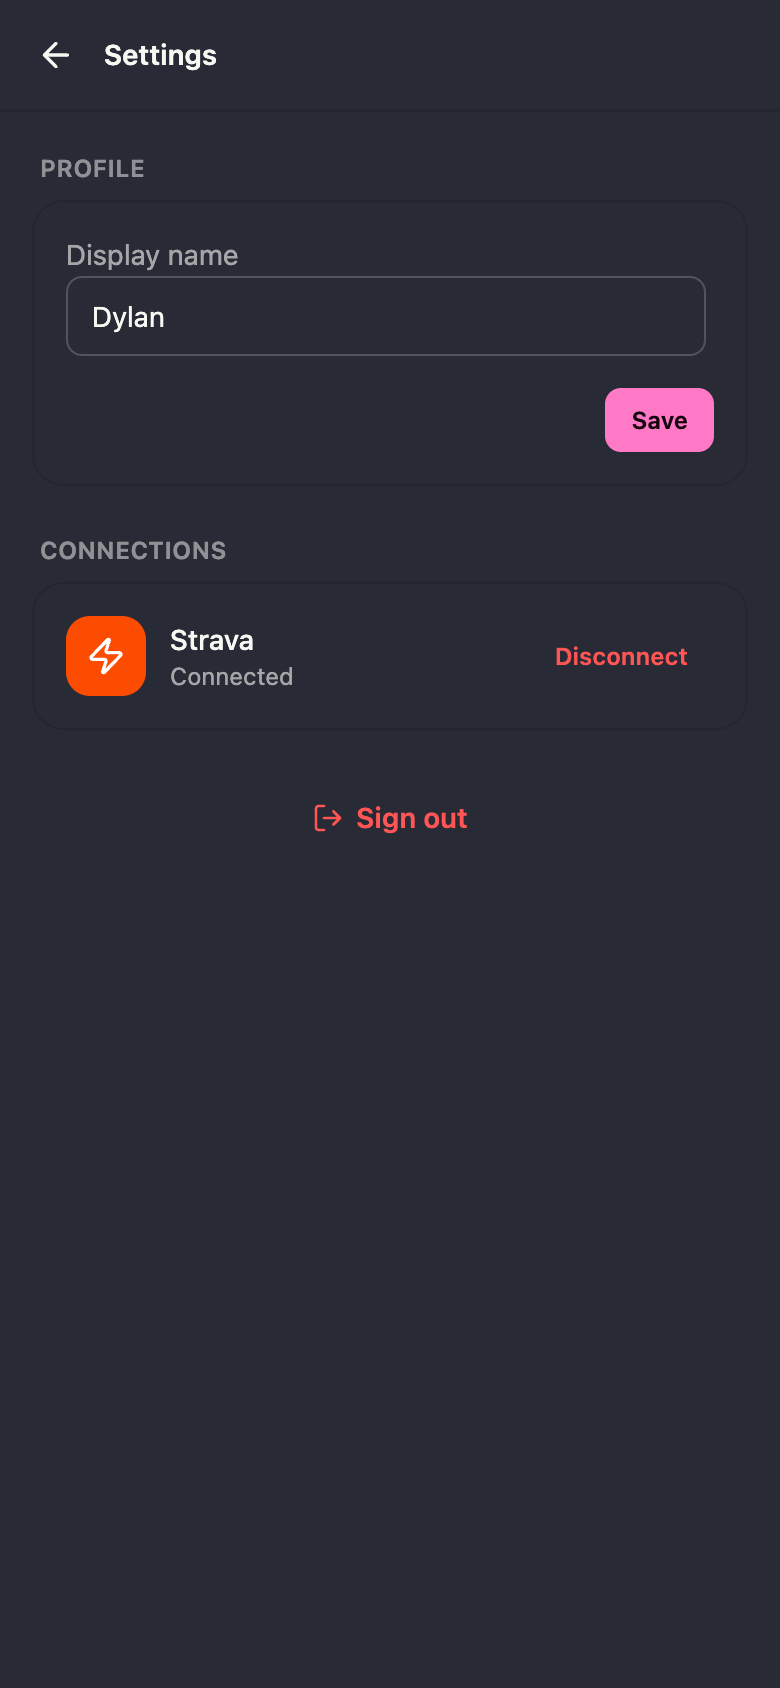
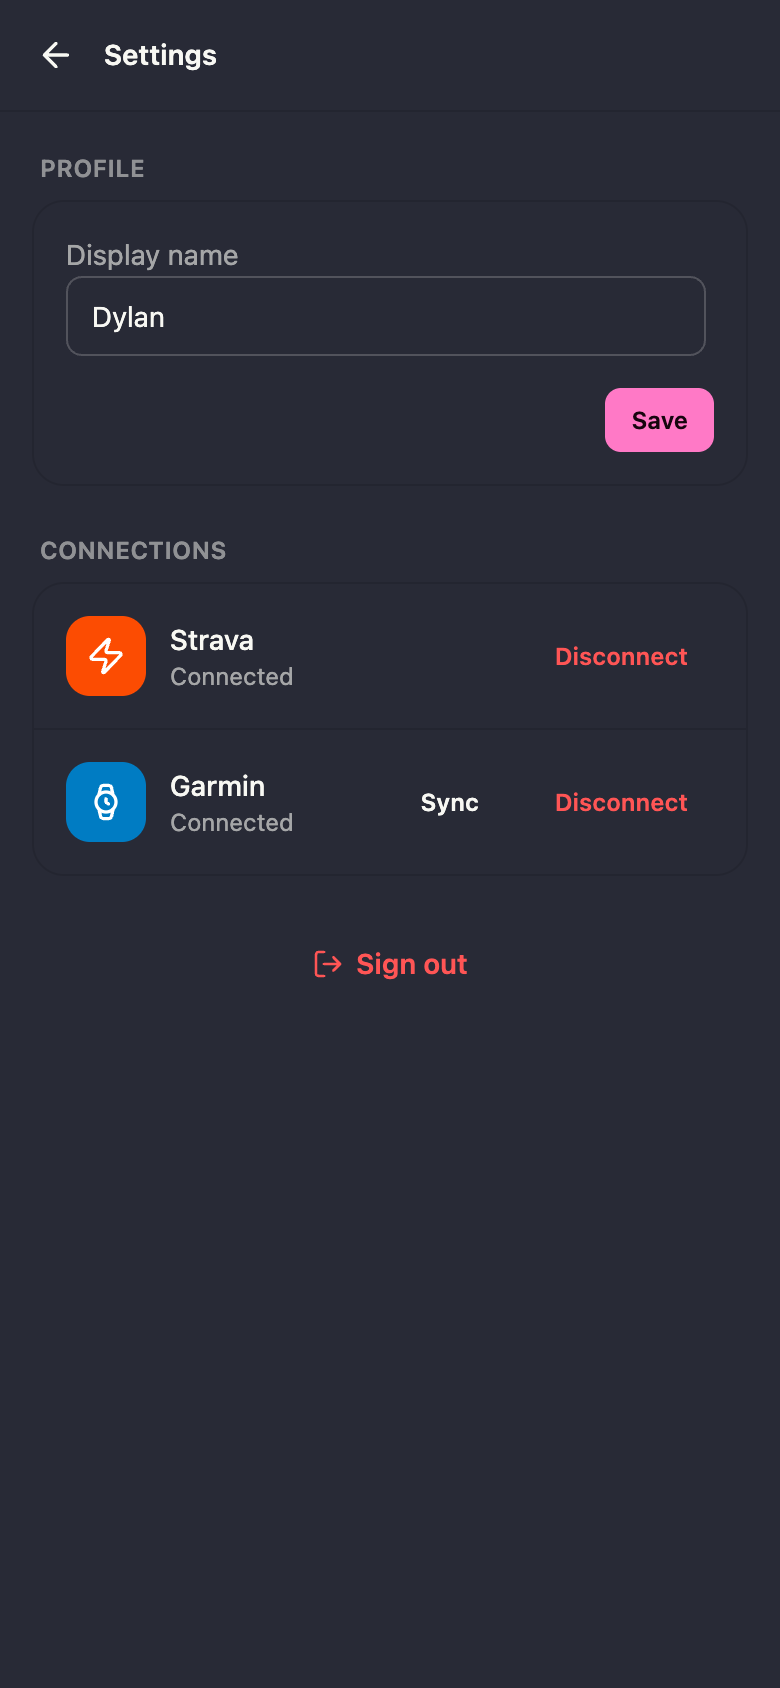
chore: refresh screenshot mock data for Garmin
Show Garmin as a connected service in the settings mock and surface
Garmin wellness (sleep, HRV) plus the watch workout push in the sample
conversation, then regenerate the docs screenshots.

diff --git a/tools/screenshots/main.go b/tools/screenshots/main.go
@@ -33,16 +33,17 @@ var pages = []page{
 }
 
 var sampleConversation = []web.Message{
-	{Role: web.RoleAssistant, Content: "Morning! I saw your 8 km easy run synced overnight — nicely controlled, your pace stayed in zone 2 the whole way. How did the legs feel?", Time: "7:02 AM"},
+	{Role: web.RoleAssistant, Content: "Morning! I saw your 8 km easy run synced overnight — nicely controlled, your pace stayed in zone 2 the whole way. Your Garmin also logged 7h 40m sleep and HRV back up to 68 ms, so recovery's looking solid. How did the legs feel?", Time: "7:02 AM"},
 	{Role: web.RoleUser, Content: "Pretty good, a bit heavy at the start but loosened up after a couple of km.", Time: "7:14 AM"},
 	{Role: web.RoleAssistant, Content: "That's normal the day after a long run. Your acute:chronic load is sitting at 1.1, right in the sweet spot — no need to back off. Want me to slot an easy day or some strides for tomorrow?", Time: "7:15 AM"},
 	{Role: web.RoleUser, Content: "Strides sound good. I've got a 10k race in 6 weeks I want to target.", Time: "7:20 AM"},
-	{Role: web.RoleAssistant, Content: "Noted — I've recorded that 10k goal. Six weeks is enough to sharpen. I'll start shaping a plan and run it past you before anything changes.", Time: "7:21 AM"},
+	{Role: web.RoleAssistant, Content: "Noted — I've recorded that 10k goal. Six weeks is enough to sharpen. I've pushed tomorrow's session — 6 km easy with 6×20s strides — to your Garmin so it's ready on the watch. I'll shape the full plan and run it past you before anything else changes.", Time: "7:21 AM"},
 }
 
 var sampleSettings = web.SettingsData{
 	DisplayName:     "Dylan",
 	StravaConnected: true,
+	GarminConnected: true,
 }
 
 func main() {